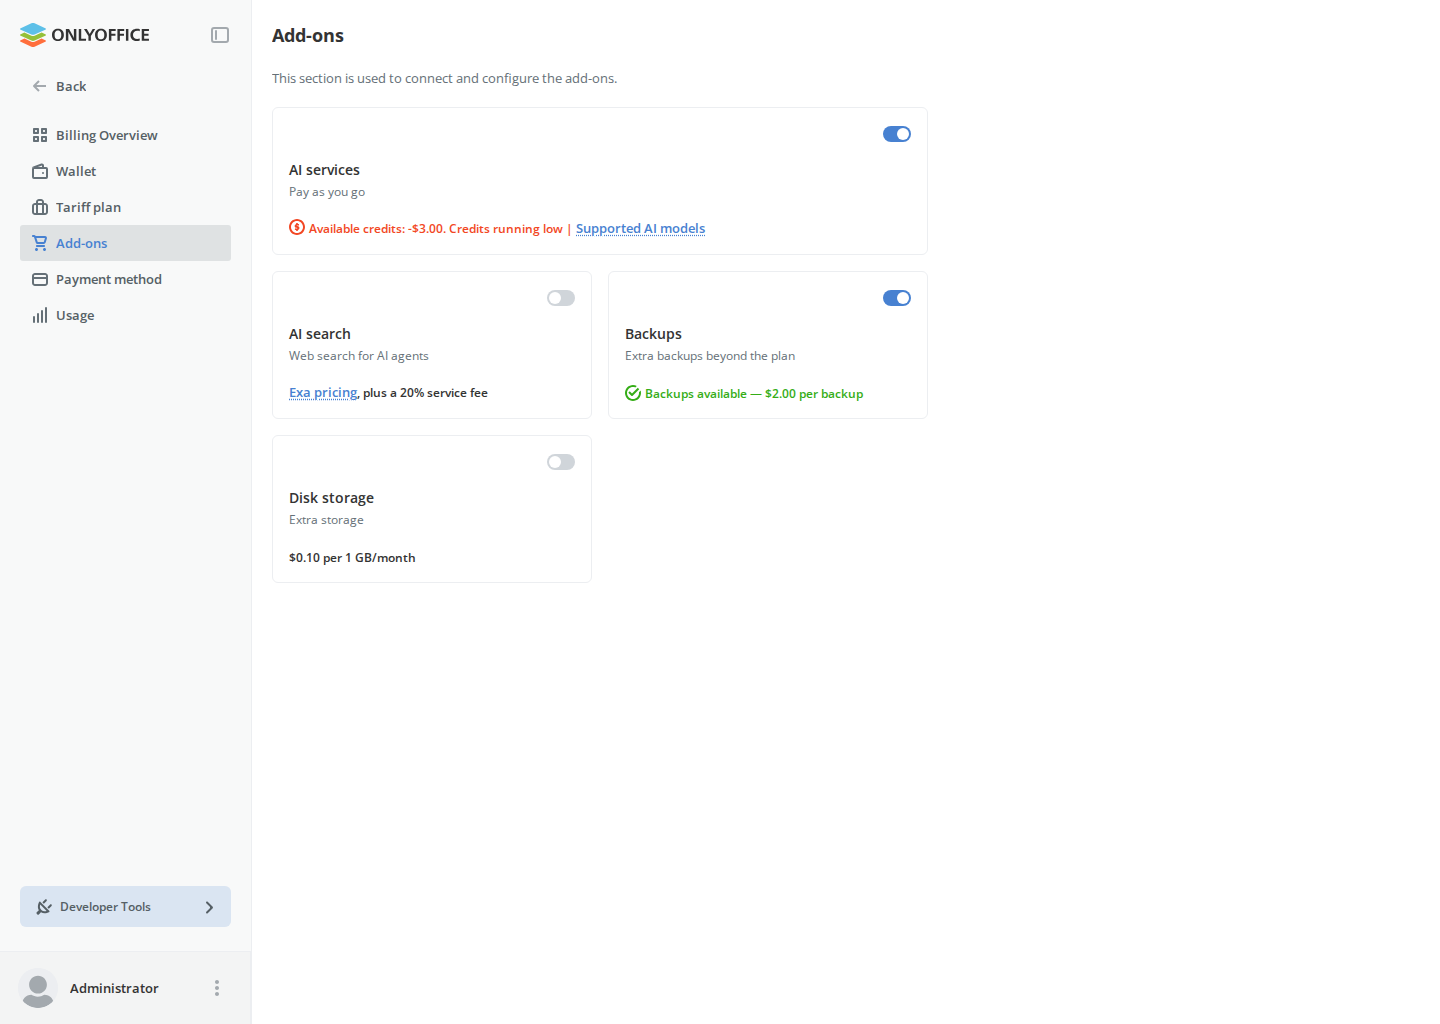
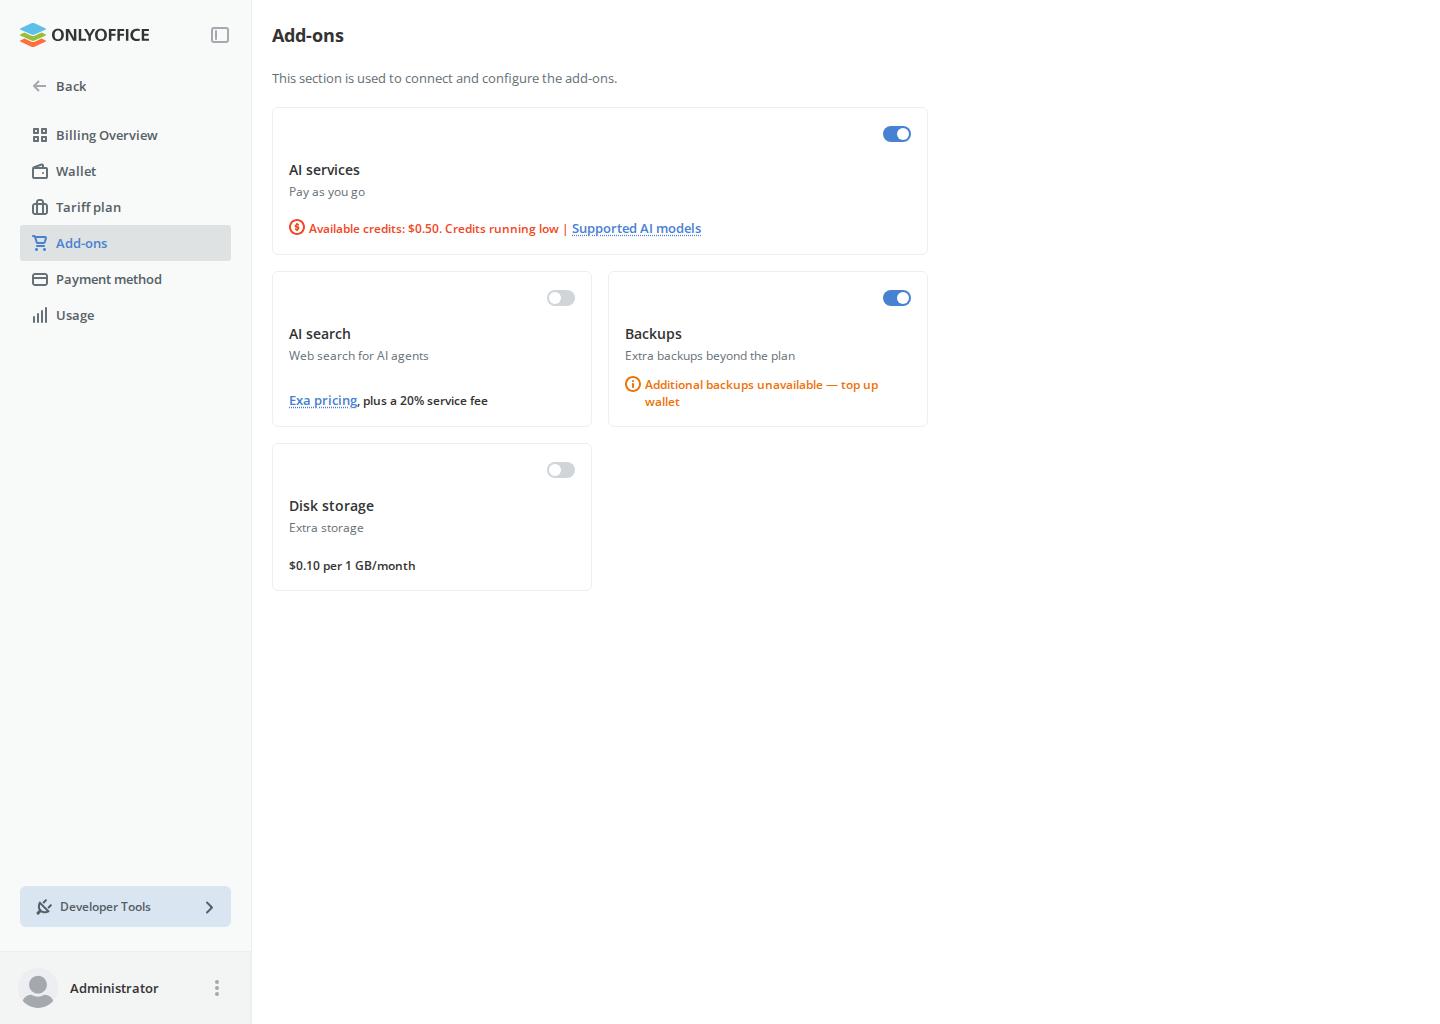
Client: test the add-ons on a low balance instead of a negative one

diff --git a/packages/client/__tests__/billing-addons.spec.ts b/packages/client/__tests__/billing-addons.spec.ts
@@ -403,32 +403,32 @@ test.describe("Add-ons with services switched on", () => {
   });
 });
 
-test.describe("Add-ons on a negative balance", () => {
+test.describe("Add-ons on a low balance", () => {
   test.beforeEach(async ({ mockRequest, page }) => {
     useSaasBilling(mockRequest, { user: "owner", payer: "self-owner" });
     mockRequest.use(serviceStateHandler(), serviceFeeHandler());
     await page.clock.setSystemTime(PAID_NOW);
   });
 
-  test("the AI card warns about the credits while backups still read as available", async ({
+  test("a nearly empty wallet warns on the AI card and leaves no backups", async ({
     page,
     baseUrl,
     mockRequest,
   }) => {
     mockRequest.use(
       ...walletServicesHandler(["aitools", "backup"]),
-      balanceHandler(-3),
+      balanceHandler(0.5),
     );
 
     await openAddons(page, baseUrl);
 
     await expect(
-      page.getByText("Available credits: -$3.00. Credits running low"),
+      page.getByText("Available credits: $0.50. Credits running low"),
     ).toBeVisible();
     await expect(card(page, "aitools").getByTestId("ai_supported_models_link")).toBeVisible();
-    // TODO(ui-kit): availableBackupsCount only zeroes an exactly empty wallet, so a negative
-    // balance still reads as available; flip this to "unavailable" once it is fixed.
-    await expect(page.getByText("Backups available — $2.00 per backup")).toBeVisible();
+    await expect(
+      page.getByText("Additional backups unavailable — top up wallet"),
+    ).toBeVisible();
 
     await expectScreenshot(page, ["desktop", "addons", "low-balance.png"]);
   });
@@ -458,7 +458,7 @@ test.describe("Add-ons on a negative balance", () => {
     baseUrl,
     mockRequest,
   }) => {
-    mockRequest.use(...walletServicesHandler(["backup"]), balanceHandler(-3));
+    mockRequest.use(...walletServicesHandler(["backup"]), balanceHandler(0.5));
 
     await openAddons(page, baseUrl);
 
